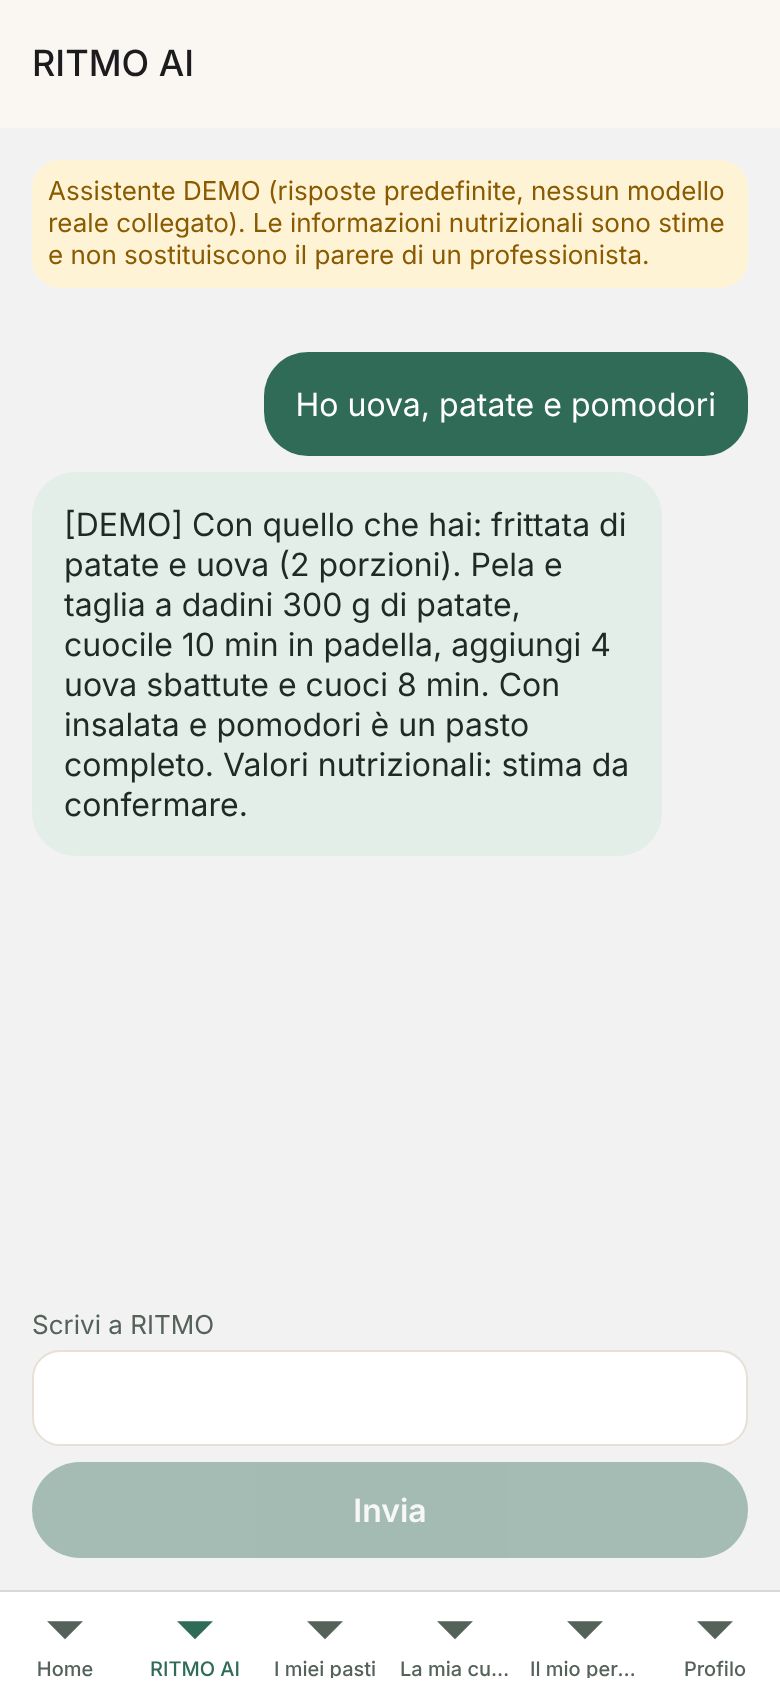
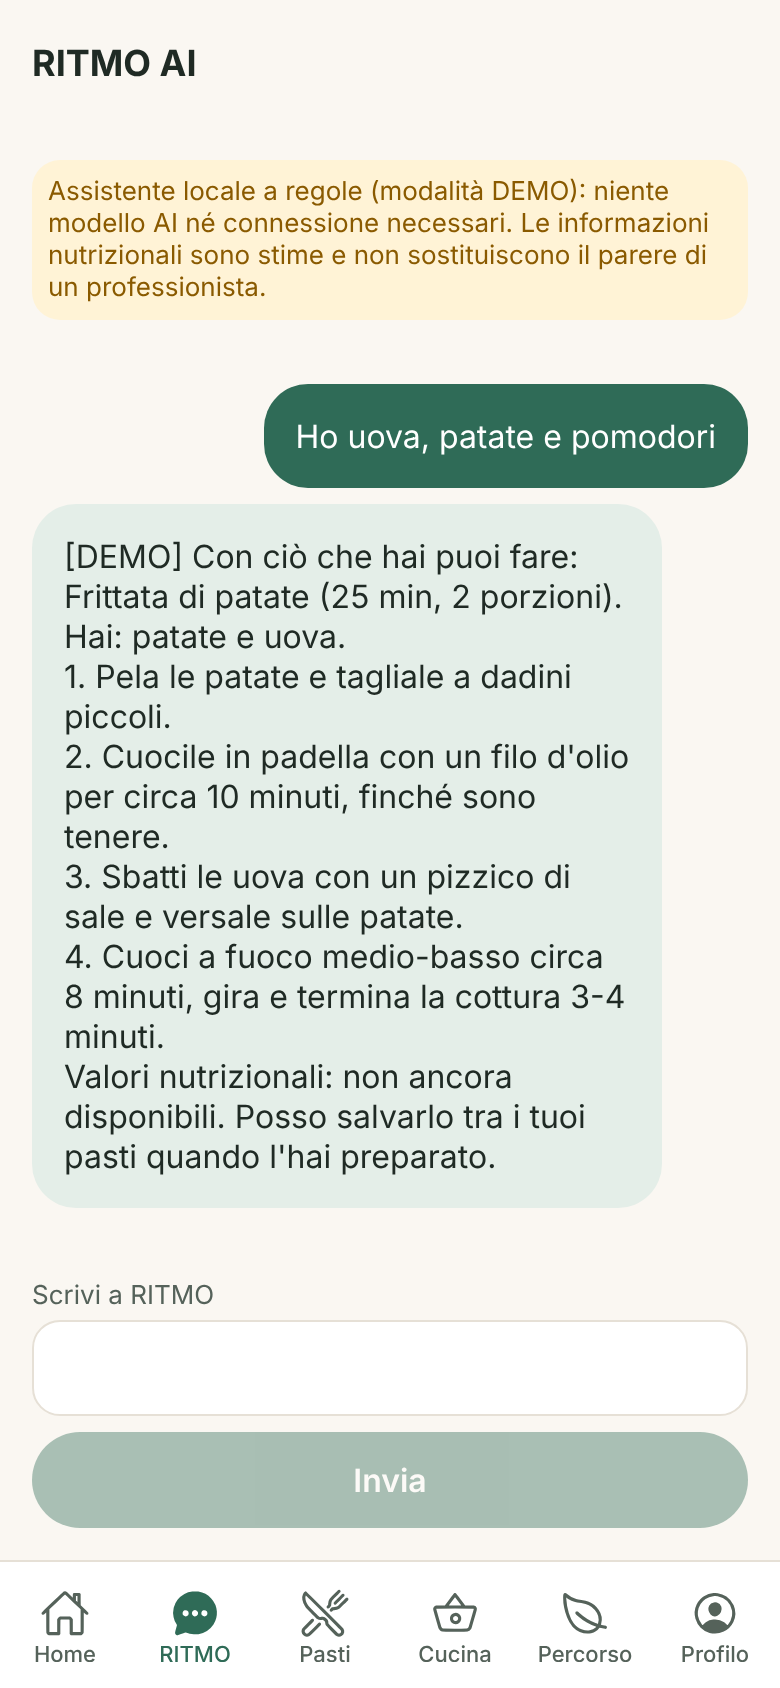
Rifinitura grafica: icone nella barra, sfondo avorio, etichette brevi, Home con suggerimento per fascia oraria; fix accessibilita
Suite completa verde (108 test, E2E, axe).

Claude-Session: https://claude.ai/code/session_01PERJwsJgRzCJ2TGXfVrSXN

diff --git a/apps/mobile/app/(tabs)/home.tsx b/apps/mobile/app/(tabs)/home.tsx
@@ -1,22 +1,40 @@
-import { ScrollView } from "react-native";
+import { ScrollView, View, Text, Pressable } from "react-native";
 import { useRouter } from "expo-router";
+import { Ionicons } from "@expo/vector-icons";
+import { matchRecipes } from "@ritmo/core";
+import { quickIdea } from "@ritmo/ai";
 import { Button, Card, H2, Body } from "../../src/ui";
 import { useStore } from "../../src/store";
-import { space } from "../../src/theme";
+import { colors, radius, space } from "../../src/theme";
+
+const Row = ({ icon, title, sub, onPress }: { icon: React.ComponentProps<typeof Ionicons>["name"]; title: string; sub: string; onPress: () => void }) => (
+  <Pressable role="button" onPress={onPress} style={({ pressed }) => [{ flexDirection: "row", alignItems: "center", gap: space.md, backgroundColor: colors.surface, borderRadius: radius.lg, borderWidth: 1, borderColor: colors.line, padding: space.md, minHeight: 64 }, pressed && { opacity: 0.85 }]}>
+    <View style={{ width: 44, height: 44, borderRadius: 22, backgroundColor: colors.sage, alignItems: "center", justifyContent: "center" }}><Ionicons aria-hidden name={icon} size={22} color={colors.primary} /></View>
+    <View style={{ flex: 1 }}><Text style={{ fontSize: 16, fontWeight: "600", color: colors.ink }}>{title}</Text><Text style={{ fontSize: 13, color: colors.inkSoft }}>{sub}</Text></View>
+    <Ionicons aria-hidden name="chevron-forward" size={20} color={colors.inkSoft} />
+  </Pressable>
+);
 
 export default function Home() {
   const r = useRouter(); const { state } = useStore();
-  const today = new Date().toISOString().slice(0, 10);
+  const now = new Date(); const h = now.getHours();
+  const today = `${now.getFullYear()}-${String(now.getMonth() + 1).padStart(2, "0")}-${String(now.getDate()).padStart(2, "0")}`;
   const todays = state.meals.filter(m => m.eatenAt.startsWith(today));
-  const h = new Date().getHours();
   const hello = h < 12 ? "Buongiorno" : h < 18 ? "Buon pomeriggio" : "Buonasera";
+  const { slot, idea } = quickIdea(h);
+  const best = matchRecipes(state.pantry.map(p => p.name), { excluded: state.prefs?.excludedFoods, limit: 1 })[0];
   return (
     <ScrollView contentContainerStyle={{ padding: space.lg, gap: space.md }}>
-      <H2>{hello}</H2>
-      <Card><Body>Non sai cosa mangiare adesso?</Body><Button label="Chiedi a RITMO" onPress={() => r.push("/(tabs)/ritmo")} /></Card>
-      <Card><H2>Oggi</H2>
-        {todays.length === 0 ? <Body soft>Nessun pasto registrato.</Body> : todays.map(m => <Body key={m.id}>{m.mealType}: {m.description}</Body>)}</Card>
-      <Card><H2>La tua dispensa</H2><Body soft>{state.pantry.length ? `${state.pantry.length} ingredienti salvati` : "Aggiungi gli ingredienti che hai per ricevere ricette."}</Body></Card>
+      <View style={{ gap: 2 }}><Text style={{ fontSize: 30, fontWeight: "800", color: colors.ink }}>{hello}</Text><Text style={{ fontSize: 15, color: colors.inkSoft }}>Mangia bene, anche quando la vita cambia programma.</Text></View>
+      <View style={{ backgroundColor: colors.primary, borderRadius: radius.lg, padding: space.lg, gap: space.sm }}>
+        <Text style={{ color: "#CFE3D8", fontSize: 13, fontWeight: "600", textTransform: "uppercase", letterSpacing: 0.6 }}>Ora: {slot}</Text>
+        <Text style={{ color: colors.primaryInk, fontSize: 18, lineHeight: 25, fontWeight: "600" }}>{best ? `Con la tua dispensa: ${best.recipe.title} (${best.recipe.minutes} min).` : `Un'idea semplice: ${idea}.`}</Text>
+        <Pressable role="button" aria-label="Chiedi a RITMO" onPress={() => r.push("/(tabs)/ritmo")} style={{ alignSelf: "flex-start", backgroundColor: colors.bg, borderRadius: radius.pill, paddingHorizontal: space.lg, minHeight: 44, justifyContent: "center", marginTop: space.xs }}>
+          <Text style={{ color: colors.primary, fontWeight: "700", fontSize: 16 }}>Chiedi a RITMO</Text></Pressable>
+      </View>
+      <Row icon="restaurant-outline" title="Oggi" sub={todays.length ? `${todays.length} ${todays.length === 1 ? "pasto registrato" : "pasti registrati"}` : "Nessun pasto registrato"} onPress={() => r.push("/(tabs)/pasti")} />
+      <Row icon="basket-outline" title="La tua dispensa" sub={state.pantry.length ? `${state.pantry.length} ingredienti salvati` : "Aggiungi gli ingredienti che hai per ricevere ricette"} onPress={() => r.push("/(tabs)/cucina")} />
+      <Row icon="leaf-outline" title="Il tuo percorso" sub="Gli ultimi 7 giorni, senza pressione" onPress={() => r.push("/(tabs)/percorso")} />
     </ScrollView>
   );
 }

diff --git a/apps/mobile/app/(tabs)/_layout.tsx b/apps/mobile/app/(tabs)/_layout.tsx
@@ -1,15 +1,27 @@
 import { Tabs } from "expo-router";
+import { Ionicons } from "@expo/vector-icons";
 import { colors } from "../../src/theme";
+
+type Icon = React.ComponentProps<typeof Ionicons>["name"];
+const tab = (title: string, active: Icon, idle: Icon, headerTitle?: string) => ({
+  title, headerTitle: headerTitle ?? title,
+  tabBarIcon: ({ color, focused, size }: { color: import("react-native").ColorValue; focused: boolean; size: number }) => <Ionicons aria-hidden name={focused ? active : idle} size={size} color={color as string} />,
+});
 
 export default function TabsLayout() {
   return (
-    <Tabs screenOptions={{ tabBarActiveTintColor: colors.primary, tabBarInactiveTintColor: colors.inkSoft, headerStyle: { backgroundColor: colors.bg }, headerShadowVisible: false, tabBarStyle: { backgroundColor: colors.surface } }}>
-      <Tabs.Screen name="home" options={{ title: "Home" }} />
-      <Tabs.Screen name="ritmo" options={{ title: "RITMO AI" }} />
-      <Tabs.Screen name="pasti" options={{ title: "I miei pasti" }} />
-      <Tabs.Screen name="cucina" options={{ title: "La mia cucina" }} />
-      <Tabs.Screen name="percorso" options={{ title: "Il mio percorso" }} />
-      <Tabs.Screen name="profilo" options={{ title: "Profilo" }} />
+    <Tabs screenOptions={{
+      tabBarActiveTintColor: colors.primary, tabBarInactiveTintColor: colors.inkSoft,
+      sceneStyle: { backgroundColor: colors.bg },
+      headerStyle: { backgroundColor: colors.bg }, headerShadowVisible: false, headerTitleStyle: { fontWeight: "700", color: colors.ink },
+      tabBarStyle: { backgroundColor: colors.surface, borderTopColor: colors.line, height: 64, paddingBottom: 8, paddingTop: 6 }, tabBarLabelStyle: { fontSize: 11 },
+    }}>
+      <Tabs.Screen name="home" options={tab("Home", "home", "home-outline")} />
+      <Tabs.Screen name="ritmo" options={tab("RITMO", "chatbubble-ellipses", "chatbubble-ellipses-outline", "RITMO AI")} />
+      <Tabs.Screen name="pasti" options={tab("Pasti", "restaurant", "restaurant-outline", "I miei pasti")} />
+      <Tabs.Screen name="cucina" options={tab("Cucina", "basket", "basket-outline", "La mia cucina")} />
+      <Tabs.Screen name="percorso" options={tab("Percorso", "leaf", "leaf-outline", "Il mio percorso")} />
+      <Tabs.Screen name="profilo" options={tab("Profilo", "person-circle", "person-circle-outline")} />
     </Tabs>
   );
 }

diff --git a/packages/ai/src/demo.ts b/packages/ai/src/demo.ts
@@ -23,6 +23,9 @@ const GENERIC: Record<Slot, string> = {
   notte: "qualcosa di leggero e facile da preparare: yogurt, un frutto, qualche cracker con formaggio fresco",
 };
 
+/** Idea veloce per l'ora indicata (usata dalla Home). */
+export function quickIdea(hour: number): { slot: Slot; idea: string } { const slot = slotFor(hour); return { slot, idea: GENERIC[slot] }; }
+
 /** Estrae ingredienti da frasi tipo «Ho uova, patate e pomodori». */
 export function parseIngredients(text: string): string[] {
   const m = text.match(/\b(?:ho|abbiamo|in frigo (?:ho|c'è|ci sono)|dispensa:?)\s+(.+)$/i); if (!m) return [];
